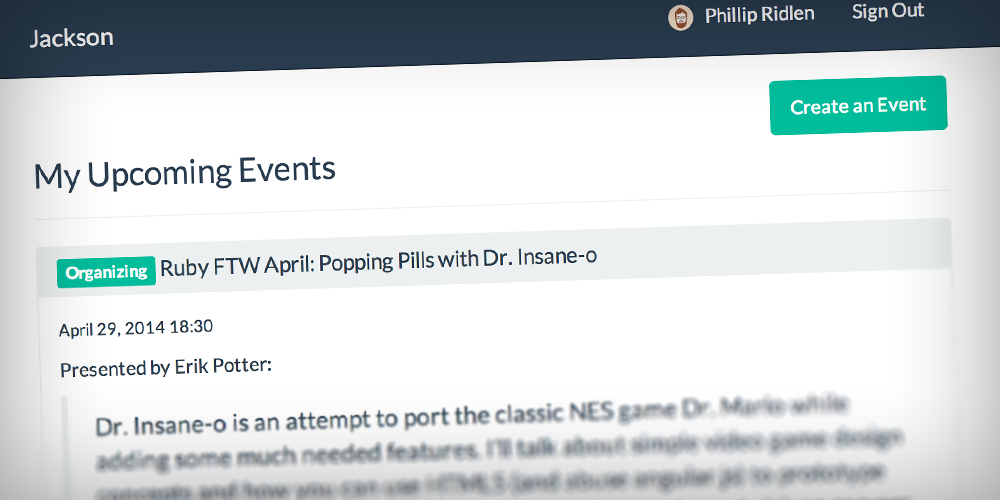
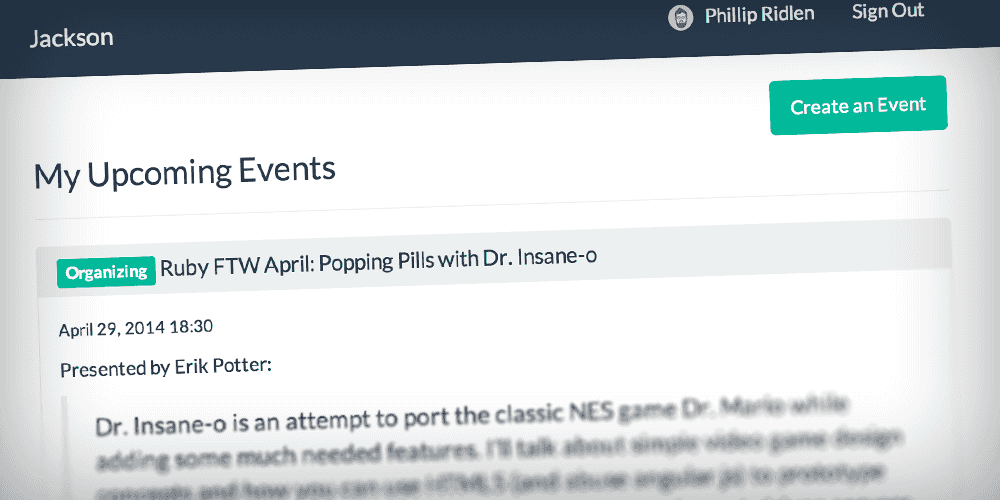
Optimize page download
- SVG on homepage
- Optimize PNGs
- Use system fonts
- Vendor only bootstrap js component I’m using

diff --git a/_assets/stylesheets/bootstrap/_variables.scss b/_assets/stylesheets/bootstrap/_variables.scss
@@ -48,10 +48,10 @@ $link-hover-decoration: underline !default;
 //
 //## Font, line-height, and color for body text, headings, and more.
 
-$font-family-sans-serif:  "Lato", "Seravek", "Segoe UI", "Helvetica Neue", Arial, sans-serif !default;
-$font-family-serif:       "Constantina" ,"Charter", "Georgia", serif !default;
+$font-family-sans-serif:  -apple-system, "Avenir", "Segoe UI", "Helvetica Neue", Arial, sans-serif !default;
+$font-family-serif:       "Constantina", "Charter", "Georgia", serif !default;
 //** Default monospace fonts for `<code>`, `<kbd>`, and `<pre>`.
-$font-family-monospace:   "source-code-pro", "Source Code Pro", Consolas, Menlo, Monaco, monospace !default;
+$font-family-monospace:   "Source Code Pro", Consolas, Menlo, Monaco, monospace !default;
 $font-family-base:        $font-family-sans-serif !default;
 
 $font-size-base:          15px !default;

diff --git a/_includes/head/libraries.html b/_includes/head/libraries.html
@@ -1,9 +1,5 @@
 <link rel="stylesheet" href="//maxcdn.bootstrapcdn.com/font-awesome/4.2.0/css/font-awesome.min.css" />
-<link rel="stylesheet" href="//brick.a.ssl.fastly.net/Lato:400,700,400i,700i" />
-
 {% stylesheet main %}
 
 <script type="text/javascript" src="//code.jquery.com/jquery-2.1.1.min.js"></script>
-<script type="text/javascript" src="//maxcdn.bootstrapcdn.com/bootstrap/3.3.1/js/bootstrap.min.js"></script>
-
 {% javascript main %}

diff --git a/_assets/javascripts/main.js b/_assets/javascripts/main.js
@@ -1,5 +1,5 @@
+//= require vendor/bootstrap/collapse.js
 //= require vendor/turbolinks
 //= require vendor/ga
-//= require vendor/typekit
 //= require init
 
